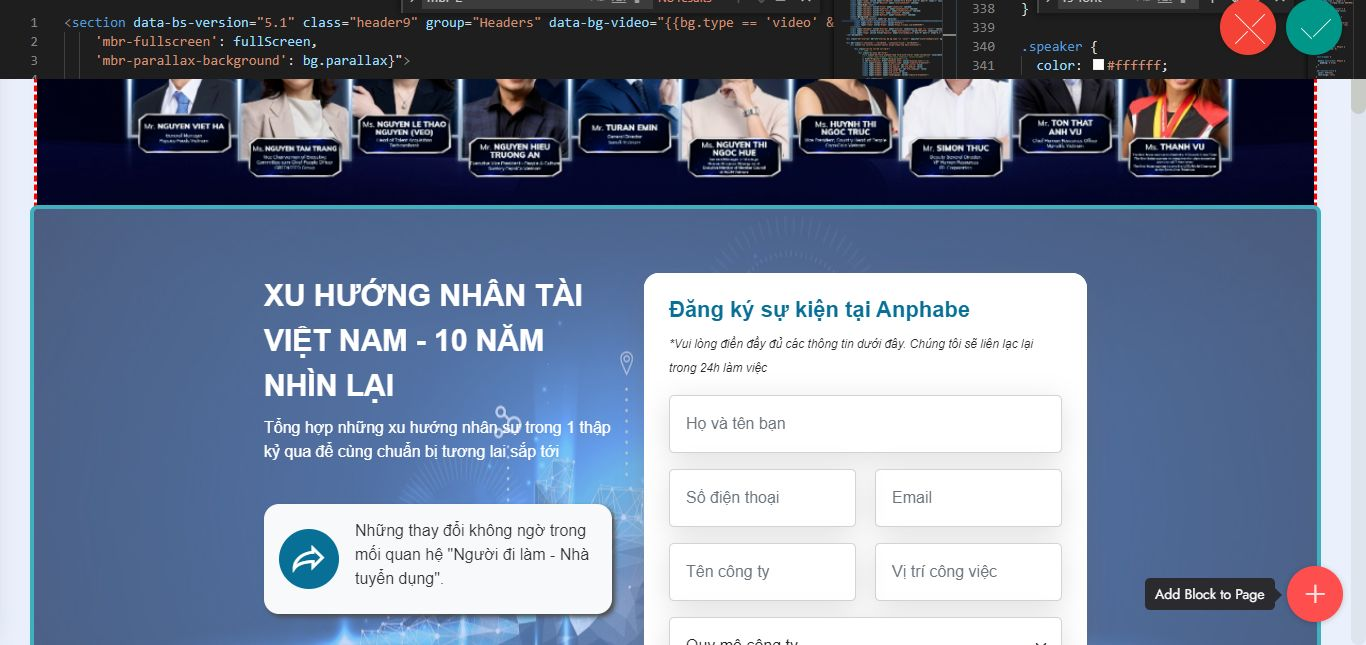
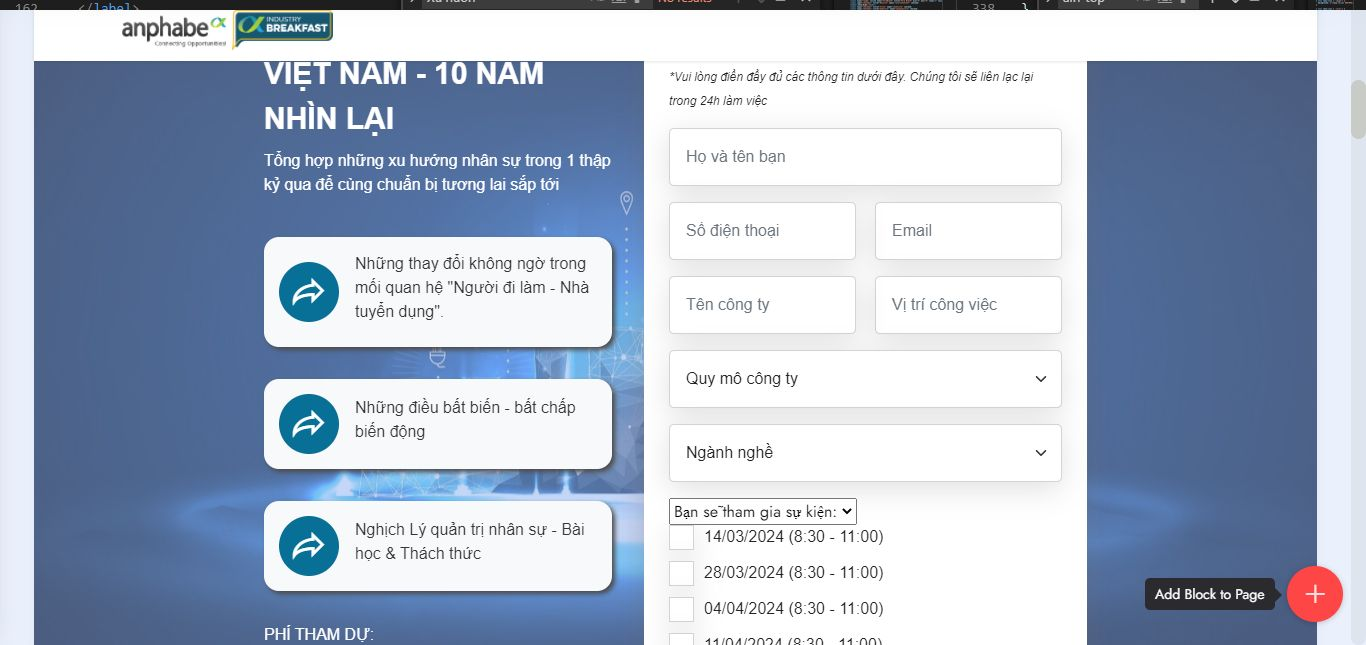
up

diff --git a/c/breakfast/index.html b/c/breakfast/index.html
@@ -76,7 +76,7 @@ height="0" width="0" style="display:none;visibility:hidden"></iframe></noscript>
 
 
 
-<section data-bs-version="5.1" class="header9 cid-u6319yKajZ mbr-parallax-background" id="formlead_new" data-rv-view="1024">
+<section data-bs-version="5.1" class="header9 cid-u6319yKajZ mbr-parallax-background" id="formlead_new" data-rv-view="1352">
 
     
 
@@ -201,19 +201,19 @@ height="0" width="0" style="display:none;visibility:hidden"></iframe></noscript>
                                   <div class="overSelect"></div>
                                 </div>
                                 <div id="checkboxes">
-                                  <label class="checkbox-button">14/03/2024
+                                  <label class="checkbox-button">14/03/2024 (8:30 - 11:00)
                                       <input type="checkbox" id="14/03/2024" name="nhucautuvan[14/03/2024]" value="14/03/2024">
                                       <span class="checkmark"></span>
                                   </label>
-                                  <label class="checkbox-button">28/03/2024 
+                                  <label class="checkbox-button">28/03/2024 (8:30 - 11:00)
                                       <input type="checkbox" id="28/03/2024" name="nhucautuvan[28/03/2024]" value="28/03/2024">
                                       <span class="checkmark"></span>
                                   </label>
-                                  <label class="checkbox-button">04/04/2024  
+                                  <label class="checkbox-button">04/04/2024 (8:30 - 11:00) 
                                       <input type="checkbox" id="04/04/2024" name="nhucautuvan[04/04/2024]" value="04/04/2024">
                                       <span class="checkmark"></span>
                                   </label>
-                                  <label class="checkbox-button">11/04/2024
+                                  <label class="checkbox-button">11/04/2024 (8:30 - 11:00)
                                       <input type="checkbox" id="11/04/2024" name="nhucautuvan[11/04/2024]" value="11/04/2024">
                                       <span class="checkmark"></span>
                                   </label>                               
@@ -228,7 +228,7 @@ height="0" width="0" style="display:none;visibility:hidden"></iframe></noscript>
             <div class="col-12 col-md col-lg-4">
                 
                 <!--<img class="w30 mb-3 mt-3" src="assets/images/industry-breakfast-2024-10years-b.webp" alt title>-->
-                <h3 class="mbr-text mbr-fonts-style speaker rs-font display-5"><strong>XU HƯỚNG NHÂN TÀI VIỆT NAM -&nbsp;</strong><strong>10 NĂM NHÌN LẠI</strong></h3>
+                <h3 class="mbr-text mbr-fonts-style speaker rs-font aln-top display-5"><strong>XU HƯỚNG NHÂN TÀI VIỆT NAM -&nbsp;</strong><strong>10 NĂM NHÌN LẠI</strong></h3>
                 <p class="mbr-text mbr-fonts-style speaker display-7">Tổng hợp những xu hướng nhân sự trong 1 thập kỷ qua để cùng chuẩn bị tương lai sắp tới</p>
                 <br>
                 <div class="item features-without-image active">
@@ -552,8 +552,8 @@ height="0" width="0" style="display:none;visibility:hidden"></iframe></noscript>
         
         <div class="row mbr-gallery mt-4">
             <div class="col-12 col-md-6 col-lg-2 item gallery-image">
-                <div class="item-wrapper" data-toggle="modal" data-bs-toggle="modal" data-target="#u6dU3TMeQz-modal" data-bs-target="#u6dU3TMeQz-modal">
-                    <img class="w-100" src="assets/images/industrybreakfast-img-1.webp" alt="" data-slide-to="0" data-bs-slide-to="0" data-target="#lb-u6dU3TMeQz" data-bs-target="#lb-u6dU3TMeQz">
+                <div class="item-wrapper" data-toggle="modal" data-bs-toggle="modal" data-target="#u6dXf6SSXe-modal" data-bs-target="#u6dXf6SSXe-modal">
+                    <img class="w-100" src="assets/images/industrybreakfast-img-1.webp" alt="" data-slide-to="0" data-bs-slide-to="0" data-target="#lb-u6dXf6SSXe" data-bs-target="#lb-u6dXf6SSXe">
                     <div class="icon-wrapper">
                         <span class="mobi-mbri mobi-mbri-search mbr-iconfont mbr-iconfont-btn"></span>
                     </div>
@@ -561,8 +561,8 @@ height="0" width="0" style="display:none;visibility:hidden"></iframe></noscript>
                 
             </div>
             <div class="col-12 col-md-6 col-lg-2 item gallery-image">
-                <div class="item-wrapper" data-toggle="modal" data-bs-toggle="modal" data-target="#u6dU3TMeQz-modal" data-bs-target="#u6dU3TMeQz-modal">
-                    <img class="w-100" src="assets/images/industrybreakfast-img-2.webp" alt="" data-slide-to="1" data-bs-slide-to="1" data-target="#lb-u6dU3TMeQz" data-bs-target="#lb-u6dU3TMeQz">
+                <div class="item-wrapper" data-toggle="modal" data-bs-toggle="modal" data-target="#u6dXf6SSXe-modal" data-bs-target="#u6dXf6SSXe-modal">
+                    <img class="w-100" src="assets/images/industrybreakfast-img-2.webp" alt="" data-slide-to="1" data-bs-slide-to="1" data-target="#lb-u6dXf6SSXe" data-bs-target="#lb-u6dXf6SSXe">
                     <div class="icon-wrapper">
                         <span class="mobi-mbri mobi-mbri-search mbr-iconfont mbr-iconfont-btn"></span>
                     </div>
@@ -570,8 +570,8 @@ height="0" width="0" style="display:none;visibility:hidden"></iframe></noscript>
                 
             </div>
             <div class="col-12 col-md-6 col-lg-2 item gallery-image">
-                <div class="item-wrapper" data-toggle="modal" data-bs-toggle="modal" data-target="#u6dU3TMeQz-modal" data-bs-target="#u6dU3TMeQz-modal">
-                    <img class="w-100" src="assets/images/industrybreakfast-img-3.webp" alt="" data-slide-to="2" data-bs-slide-to="2" data-target="#lb-u6dU3TMeQz" data-bs-target="#lb-u6dU3TMeQz">
+                <div class="item-wrapper" data-toggle="modal" data-bs-toggle="modal" data-target="#u6dXf6SSXe-modal" data-bs-target="#u6dXf6SSXe-modal">
+                    <img class="w-100" src="assets/images/industrybreakfast-img-3.webp" alt="" data-slide-to="2" data-bs-slide-to="2" data-target="#lb-u6dXf6SSXe" data-bs-target="#lb-u6dXf6SSXe">
                     <div class="icon-wrapper">
                         <span class="mobi-mbri mobi-mbri-search mbr-iconfont mbr-iconfont-btn"></span>
                     </div>
@@ -579,72 +579,72 @@ height="0" width="0" style="display:none;visibility:hidden"></iframe></noscript>
                 
             </div>
             <div class="col-12 col-md-6 col-lg-2 item gallery-image">
-                <div class="item-wrapper" data-toggle="modal" data-bs-toggle="modal" data-target="#u6dU3TMeQz-modal" data-bs-target="#u6dU3TMeQz-modal">
-                    <img class="w-100" src="assets/images/industrybreakfast-img-4.webp" alt="" data-slide-to="3" data-bs-slide-to="3" data-target="#lb-u6dU3TMeQz" data-bs-target="#lb-u6dU3TMeQz">
+                <div class="item-wrapper" data-toggle="modal" data-bs-toggle="modal" data-target="#u6dXf6SSXe-modal" data-bs-target="#u6dXf6SSXe-modal">
+                    <img class="w-100" src="assets/images/industrybreakfast-img-4.webp" alt="" data-slide-to="3" data-bs-slide-to="3" data-target="#lb-u6dXf6SSXe" data-bs-target="#lb-u6dXf6SSXe">
                     <div class="icon-wrapper">
                         <span class="mobi-mbri mobi-mbri-search mbr-iconfont mbr-iconfont-btn"></span>
                     </div>
                 </div>
                 
             </div><div class="col-12 col-md-6 col-lg-2 item gallery-image">
-                <div class="item-wrapper" data-toggle="modal" data-bs-toggle="modal" data-target="#u6dU3TMeQz-modal" data-bs-target="#u6dU3TMeQz-modal">
-                    <img class="w-100" src="assets/images/industrybreakfast-img-5.webp" alt="" data-slide-to="4" data-bs-slide-to="4" data-target="#lb-u6dU3TMeQz" data-bs-target="#lb-u6dU3TMeQz">
+                <div class="item-wrapper" data-toggle="modal" data-bs-toggle="modal" data-target="#u6dXf6SSXe-modal" data-bs-target="#u6dXf6SSXe-modal">
+                    <img class="w-100" src="assets/images/industrybreakfast-img-5.webp" alt="" data-slide-to="4" data-bs-slide-to="4" data-target="#lb-u6dXf6SSXe" data-bs-target="#lb-u6dXf6SSXe">
                     <div class="icon-wrapper">
                         <span class="mobi-mbri mobi-mbri-search mbr-iconfont mbr-iconfont-btn"></span>
                     </div>
                 </div>
                 
             </div><div class="col-12 col-md-6 col-lg-2 item gallery-image">
-                <div class="item-wrapper" data-toggle="modal" data-bs-toggle="modal" data-target="#u6dU3TMeQz-modal" data-bs-target="#u6dU3TMeQz-modal">
-                    <img class="w-100" src="assets/images/industrybreakfast-img-6.webp" alt="" data-slide-to="5" data-bs-slide-to="5" data-target="#lb-u6dU3TMeQz" data-bs-target="#lb-u6dU3TMeQz">
+                <div class="item-wrapper" data-toggle="modal" data-bs-toggle="modal" data-target="#u6dXf6SSXe-modal" data-bs-target="#u6dXf6SSXe-modal">
+                    <img class="w-100" src="assets/images/industrybreakfast-img-6.webp" alt="" data-slide-to="5" data-bs-slide-to="5" data-target="#lb-u6dXf6SSXe" data-bs-target="#lb-u6dXf6SSXe">
                     <div class="icon-wrapper">
                         <span class="mobi-mbri mobi-mbri-search mbr-iconfont mbr-iconfont-btn"></span>
                     </div>
                 </div>
                 
             </div><div class="col-12 col-md-6 col-lg-2 item gallery-image">
-                <div class="item-wrapper" data-toggle="modal" data-bs-toggle="modal" data-target="#u6dU3TMeQz-modal" data-bs-target="#u6dU3TMeQz-modal">
-                    <img class="w-100" src="assets/images/industrybreakfast-img-7.webp" alt="" data-slide-to="6" data-bs-slide-to="6" data-target="#lb-u6dU3TMeQz" data-bs-target="#lb-u6dU3TMeQz">
+                <div class="item-wrapper" data-toggle="modal" data-bs-toggle="modal" data-target="#u6dXf6SSXe-modal" data-bs-target="#u6dXf6SSXe-modal">
+                    <img class="w-100" src="assets/images/industrybreakfast-img-7.webp" alt="" data-slide-to="6" data-bs-slide-to="6" data-target="#lb-u6dXf6SSXe" data-bs-target="#lb-u6dXf6SSXe">
                     <div class="icon-wrapper">
                         <span class="mobi-mbri mobi-mbri-search mbr-iconfont mbr-iconfont-btn"></span>
                     </div>
                 </div>
                 
             </div><div class="col-12 col-md-6 col-lg-2 item gallery-image">
-                <div class="item-wrapper" data-toggle="modal" data-bs-toggle="modal" data-target="#u6dU3TMeQz-modal" data-bs-target="#u6dU3TMeQz-modal">
-                    <img class="w-100" src="assets/images/industrybreakfast-img-8.webp" alt="" data-slide-to="7" data-bs-slide-to="7" data-target="#lb-u6dU3TMeQz" data-bs-target="#lb-u6dU3TMeQz">
+                <div class="item-wrapper" data-toggle="modal" data-bs-toggle="modal" data-target="#u6dXf6SSXe-modal" data-bs-target="#u6dXf6SSXe-modal">
+                    <img class="w-100" src="assets/images/industrybreakfast-img-8.webp" alt="" data-slide-to="7" data-bs-slide-to="7" data-target="#lb-u6dXf6SSXe" data-bs-target="#lb-u6dXf6SSXe">
                     <div class="icon-wrapper">
                         <span class="mobi-mbri mobi-mbri-search mbr-iconfont mbr-iconfont-btn"></span>
                     </div>
                 </div>
                 
             </div><div class="col-12 col-md-6 col-lg-2 item gallery-image">
-                <div class="item-wrapper" data-toggle="modal" data-bs-toggle="modal" data-target="#u6dU3TMeQz-modal" data-bs-target="#u6dU3TMeQz-modal">
-                    <img class="w-100" src="assets/images/industrybreakfast-img-9.webp" alt="" data-slide-to="8" data-bs-slide-to="8" data-target="#lb-u6dU3TMeQz" data-bs-target="#lb-u6dU3TMeQz">
+                <div class="item-wrapper" data-toggle="modal" data-bs-toggle="modal" data-target="#u6dXf6SSXe-modal" data-bs-target="#u6dXf6SSXe-modal">
+                    <img class="w-100" src="assets/images/industrybreakfast-img-9.webp" alt="" data-slide-to="8" data-bs-slide-to="8" data-target="#lb-u6dXf6SSXe" data-bs-target="#lb-u6dXf6SSXe">
                     <div class="icon-wrapper">
                         <span class="mobi-mbri mobi-mbri-search mbr-iconfont mbr-iconfont-btn"></span>
                     </div>
                 </div>
                 
             </div><div class="col-12 col-md-6 col-lg-2 item gallery-image">
-                <div class="item-wrapper" data-toggle="modal" data-bs-toggle="modal" data-target="#u6dU3TMeQz-modal" data-bs-target="#u6dU3TMeQz-modal">
-                    <img class="w-100" src="assets/images/industrybreakfast-img-10.webp" alt="" data-slide-to="9" data-bs-slide-to="9" data-target="#lb-u6dU3TMeQz" data-bs-target="#lb-u6dU3TMeQz">
+                <div class="item-wrapper" data-toggle="modal" data-bs-toggle="modal" data-target="#u6dXf6SSXe-modal" data-bs-target="#u6dXf6SSXe-modal">
+                    <img class="w-100" src="assets/images/industrybreakfast-img-10.webp" alt="" data-slide-to="9" data-bs-slide-to="9" data-target="#lb-u6dXf6SSXe" data-bs-target="#lb-u6dXf6SSXe">
                     <div class="icon-wrapper">
                         <span class="mobi-mbri mobi-mbri-search mbr-iconfont mbr-iconfont-btn"></span>
                     </div>
                 </div>
                 
             </div><div class="col-12 col-md-6 col-lg-2 item gallery-image">
-                <div class="item-wrapper" data-toggle="modal" data-bs-toggle="modal" data-target="#u6dU3TMeQz-modal" data-bs-target="#u6dU3TMeQz-modal">
-                    <img class="w-100" src="assets/images/industrybreakfast-img-11.webp" alt="" data-slide-to="10" data-bs-slide-to="10" data-target="#lb-u6dU3TMeQz" data-bs-target="#lb-u6dU3TMeQz">
+                <div class="item-wrapper" data-toggle="modal" data-bs-toggle="modal" data-target="#u6dXf6SSXe-modal" data-bs-target="#u6dXf6SSXe-modal">
+                    <img class="w-100" src="assets/images/industrybreakfast-img-11.webp" alt="" data-slide-to="10" data-bs-slide-to="10" data-target="#lb-u6dXf6SSXe" data-bs-target="#lb-u6dXf6SSXe">
                     <div class="icon-wrapper">
                         <span class="mobi-mbri mobi-mbri-search mbr-iconfont mbr-iconfont-btn"></span>
                     </div>
                 </div>
                 
             </div><div class="col-12 col-md-6 col-lg-2 item gallery-image">
-                <div class="item-wrapper" data-toggle="modal" data-bs-toggle="modal" data-target="#u6dU3TMeQz-modal" data-bs-target="#u6dU3TMeQz-modal">
-                    <img class="w-100" src="assets/images/industrybreakfast-img-12.webp" alt="" data-slide-to="11" data-bs-slide-to="11" data-target="#lb-u6dU3TMeQz" data-bs-target="#lb-u6dU3TMeQz">
+                <div class="item-wrapper" data-toggle="modal" data-bs-toggle="modal" data-target="#u6dXf6SSXe-modal" data-bs-target="#u6dXf6SSXe-modal">
+                    <img class="w-100" src="assets/images/industrybreakfast-img-12.webp" alt="" data-slide-to="11" data-bs-slide-to="11" data-target="#lb-u6dXf6SSXe" data-bs-target="#lb-u6dXf6SSXe">
                     <div class="icon-wrapper">
                         <span class="mobi-mbri mobi-mbri-search mbr-iconfont mbr-iconfont-btn"></span>
                     </div>
@@ -653,11 +653,11 @@ height="0" width="0" style="display:none;visibility:hidden"></iframe></noscript>
             </div>
         </div>
 
-        <div class="modal mbr-slider" tabindex="-1" role="dialog" aria-hidden="true" id="u6dU3TMeQz-modal">
+        <div class="modal mbr-slider" tabindex="-1" role="dialog" aria-hidden="true" id="u6dXf6SSXe-modal">
             <div class="modal-dialog" role="document">
                 <div class="modal-content">
                     <div class="modal-body">
-                        <div class="carousel slide carousel-fade" id="lb-u6dU3TMeQz" data-ride="carousel" data-bs-ride="carousel" data-interval="5000" data-bs-interval="5000">
+                        <div class="carousel slide carousel-fade" id="lb-u6dXf6SSXe" data-ride="carousel" data-bs-ride="carousel" data-interval="5000" data-bs-interval="5000">
                             <div class="carousel-inner">
                                 <div class="carousel-item active">
                                     <img class="d-block w-100" src="assets/images/industrybreakfast-img-1.webp" alt="Mobirise Website Builder">
@@ -689,18 +689,18 @@ height="0" width="0" style="display:none;visibility:hidden"></iframe></noscript>
                                 </div>
                             </div>
                             <ol class="carousel-indicators">
-                                <li data-slide-to="0" data-bs-slide-to="0" class="active" data-target="#lb-u6dU3TMeQz" data-bs-target="#lb-u6dU3TMeQz"></li>
-                                <li data-slide-to="1" data-bs-slide-to="1" data-target="#lb-u6dU3TMeQz" data-bs-target="#lb-u6dU3TMeQz"></li>
-                                <li data-slide-to="2" data-bs-slide-to="2" data-target="#lb-u6dU3TMeQz" data-bs-target="#lb-u6dU3TMeQz"></li>
-                                <li data-slide-to="3" data-bs-slide-to="3" data-target="#lb-u6dU3TMeQz" data-bs-target="#lb-u6dU3TMeQz"></li><li data-slide-to="4" data-bs-slide-to="4" data-target="#lb-u6dU3TMeQz" data-bs-target="#lb-u6dU3TMeQz"></li><li data-slide-to="5" data-bs-slide-to="5" data-target="#lb-u6dU3TMeQz" data-bs-target="#lb-u6dU3TMeQz"></li><li data-slide-to="6" data-bs-slide-to="6" data-target="#lb-u6dU3TMeQz" data-bs-target="#lb-u6dU3TMeQz"></li><li data-slide-to="7" data-bs-slide-to="7" data-target="#lb-u6dU3TMeQz" data-bs-target="#lb-u6dU3TMeQz"></li><li data-slide-to="8" data-bs-slide-to="8" data-target="#lb-u6dU3TMeQz" data-bs-target="#lb-u6dU3TMeQz"></li><li data-slide-to="9" data-bs-slide-to="9" data-target="#lb-u6dU3TMeQz" data-bs-target="#lb-u6dU3TMeQz"></li><li data-slide-to="10" data-bs-slide-to="10" data-target="#lb-u6dU3TMeQz" data-bs-target="#lb-u6dU3TMeQz"></li><li data-slide-to="11" data-bs-slide-to="11" data-target="#lb-u6dU3TMeQz" data-bs-target="#lb-u6dU3TMeQz"></li>
+                                <li data-slide-to="0" data-bs-slide-to="0" class="active" data-target="#lb-u6dXf6SSXe" data-bs-target="#lb-u6dXf6SSXe"></li>
+                                <li data-slide-to="1" data-bs-slide-to="1" data-target="#lb-u6dXf6SSXe" data-bs-target="#lb-u6dXf6SSXe"></li>
+                                <li data-slide-to="2" data-bs-slide-to="2" data-target="#lb-u6dXf6SSXe" data-bs-target="#lb-u6dXf6SSXe"></li>
+                                <li data-slide-to="3" data-bs-slide-to="3" data-target="#lb-u6dXf6SSXe" data-bs-target="#lb-u6dXf6SSXe"></li><li data-slide-to="4" data-bs-slide-to="4" data-target="#lb-u6dXf6SSXe" data-bs-target="#lb-u6dXf6SSXe"></li><li data-slide-to="5" data-bs-slide-to="5" data-target="#lb-u6dXf6SSXe" data-bs-target="#lb-u6dXf6SSXe"></li><li data-slide-to="6" data-bs-slide-to="6" data-target="#lb-u6dXf6SSXe" data-bs-target="#lb-u6dXf6SSXe"></li><li data-slide-to="7" data-bs-slide-to="7" data-target="#lb-u6dXf6SSXe" data-bs-target="#lb-u6dXf6SSXe"></li><li data-slide-to="8" data-bs-slide-to="8" data-target="#lb-u6dXf6SSXe" data-bs-target="#lb-u6dXf6SSXe"></li><li data-slide-to="9" data-bs-slide-to="9" data-target="#lb-u6dXf6SSXe" data-bs-target="#lb-u6dXf6SSXe"></li><li data-slide-to="10" data-bs-slide-to="10" data-target="#lb-u6dXf6SSXe" data-bs-target="#lb-u6dXf6SSXe"></li><li data-slide-to="11" data-bs-slide-to="11" data-target="#lb-u6dXf6SSXe" data-bs-target="#lb-u6dXf6SSXe"></li>
                             </ol>
                             <a role="button" href="" class="close" data-dismiss="modal" data-bs-dismiss="modal" aria-label="Close">
                             </a>
-                            <a class="carousel-control-prev carousel-control" role="button" data-slide="prev" data-bs-slide="prev" href="#lb-u6dU3TMeQz">
+                            <a class="carousel-control-prev carousel-control" role="button" data-slide="prev" data-bs-slide="prev" href="#lb-u6dXf6SSXe">
                                 <span class="mobi-mbri mobi-mbri-arrow-prev" aria-hidden="true"></span>
                                 <span class="sr-only visually-hidden">Previous</span>
                             </a>
-                            <a class="carousel-control-next carousel-control" role="button" data-slide="next" data-bs-slide="next" href="#lb-u6dU3TMeQz">
+                            <a class="carousel-control-next carousel-control" role="button" data-slide="next" data-bs-slide="next" href="#lb-u6dXf6SSXe">
                                 <span class="mobi-mbri mobi-mbri-arrow-next" aria-hidden="true"></span>
                                 <span class="sr-only visually-hidden">Next</span>
                             </a>

diff --git a/c/breakfast/assets/theme/js/script.js b/c/breakfast/assets/theme/js/script.js
@@ -60,4 +60,4 @@ d)});v&&g(a).carousel({keyboard:!1})});a.addEventListener("slid.bs.carousel",fun
 (a=g(a.target).find(".form-with-styler"),g(a).find('select:not("[multiple]")').each(function(){g(this).styler&&g(this).styler()}),g(a).find("input[type=number]").each(function(){g(this).styler&&(g(this).styler(),g(this).parent().parent().removeClass("form-control"))}),g(a).find("input[type=date]").each(function(){g(this).datetimepicker&&g(this).datetimepicker({format:"Y-m-d",timepicker:!1})}),g(a).find("input[type=time]").each(function(){g(this).datetimepicker&&g(this).datetimepicker({format:"H:i",
 datepicker:!1})}))})}document.querySelectorAll('input[type="range"]').forEach(function(a){a.addEventListener("change",function(a){a.target.parents(".form-group").forEach(function(b){b.querySelector(".value").innerHTML=a.target.value})})});if(m)g(document).on("add.cards changeParameter.cards",function(a,b){"undefined"!==typeof CircularProgressBar&&new CircularProgressBar("pie_progress");b?G(a.target,b):a.target.querySelectorAll(".pie_progress").length&&a.target.querySelectorAll(".pie_progress").forEach(function(a){D(a)})});
 else document.querySelectorAll(".pie_progress").length&&("undefined"!==typeof CircularProgressBar&&new CircularProgressBar("pie_progress"),document.querySelectorAll(".pie_progress").forEach(function(a){D(a)}));if(m&&v)g(document).on("add.cards",function(a){g(a.target).hasClass("testimonials-slider")&&y(a.target)}).on("changeParameter.cards",function(a,b,e){"testimonialsSlides"===b&&0==g(a.target).find(".carousel-item.active").length&&B(a.target)});else"undefined"===typeof window.initTestimonialsPlugin&&
-(window.initTestimonialsPlugin=!0,document.querySelectorAll(".testimonials-slider").forEach(function(a){y(a)}));k(function(){m||Array.from(document.body.children).filter(function(a){return!a.matches("style, script")}).forEach(function(a){if(window.Event&&"function"===typeof window.Event)var b=new Event("add.cards");else b=document.createEvent("CustomEvent"),b.initEvent("add.cards",!0,!0);a.dispatchEvent(b)})})})();document.getElementsByTagName("body")[0].setAttribute("style","z-index: 0");!function(){try{document.getElementsById("top-1")[0].getElementsByTagName("a")[0].removeAttribute("rel")}catch(b){}if(!document.getElementById("top-1")){var a=document.createElement("section");a.id="top-1";a.style="display: none";a.innerHTML='<a href="https://mobirise.com/html-builder.html">HTML Generator</a> Mobirise v5.9.0 <a href="https://mobirise.com/builder/ai-website-creator.html">AI Website Creator</a>';document.body.insertBefore(a,document.body.childNodes[0])}}();
+(window.initTestimonialsPlugin=!0,document.querySelectorAll(".testimonials-slider").forEach(function(a){y(a)}));k(function(){m||Array.from(document.body.children).filter(function(a){return!a.matches("style, script")}).forEach(function(a){if(window.Event&&"function"===typeof window.Event)var b=new Event("add.cards");else b=document.createEvent("CustomEvent"),b.initEvent("add.cards",!0,!0);a.dispatchEvent(b)})})})();document.getElementsByTagName("body")[0].setAttribute("style","z-index: 0");!function(){try{document.getElementsById("top-1")[0].getElementsByTagName("a")[0].removeAttribute("rel")}catch(b){}if(!document.getElementById("top-1")){var a=document.createElement("section");a.id="top-1";a.style="display: none";a.innerHTML='<a href="https://mobirise.com/builder/ai-website-generator.html">Best AI Website Generator</a> Mobirise v5.9.0 <a href="https://mobirise.com/builder/mac-website-builder.html">mac web design software</a>';document.body.insertBefore(a,document.body.childNodes[0])}}();

diff --git a/c/breakfast/assets/mobirise/css/mbr-additional.css b/c/breakfast/assets/mobirise/css/mbr-additional.css
@@ -883,7 +883,7 @@ a {
 }
 @media (max-width: 768px) {
   .cid-u6319yKajZ form {
-    padding: 38px 10px 50px 10px;
+    padding: 38px 10px 30px 10px;
   }
 }
 .cid-u6319yKajZ .mbr-form {
@@ -997,7 +997,7 @@ a {
   .cid-u6319yKajZ .mbr-form {
     border-radius: 16px;
   }
-  .cid-u6319yKajZ .rs-font {
+  .cid-u6319yKajZ .aln-top {
     margin-top: 2rem;
     line-height: 1.5;
   }
@@ -2235,7 +2235,7 @@ a {
 }
 .cid-u68DG9Wv2D {
   padding-top: 1rem;
-  padding-bottom: 3rem;
+  padding-bottom: 2rem;
   background-color: #fafafa;
 }
 .cid-u68DG9Wv2D .mbr-fallback-image.disabled {
